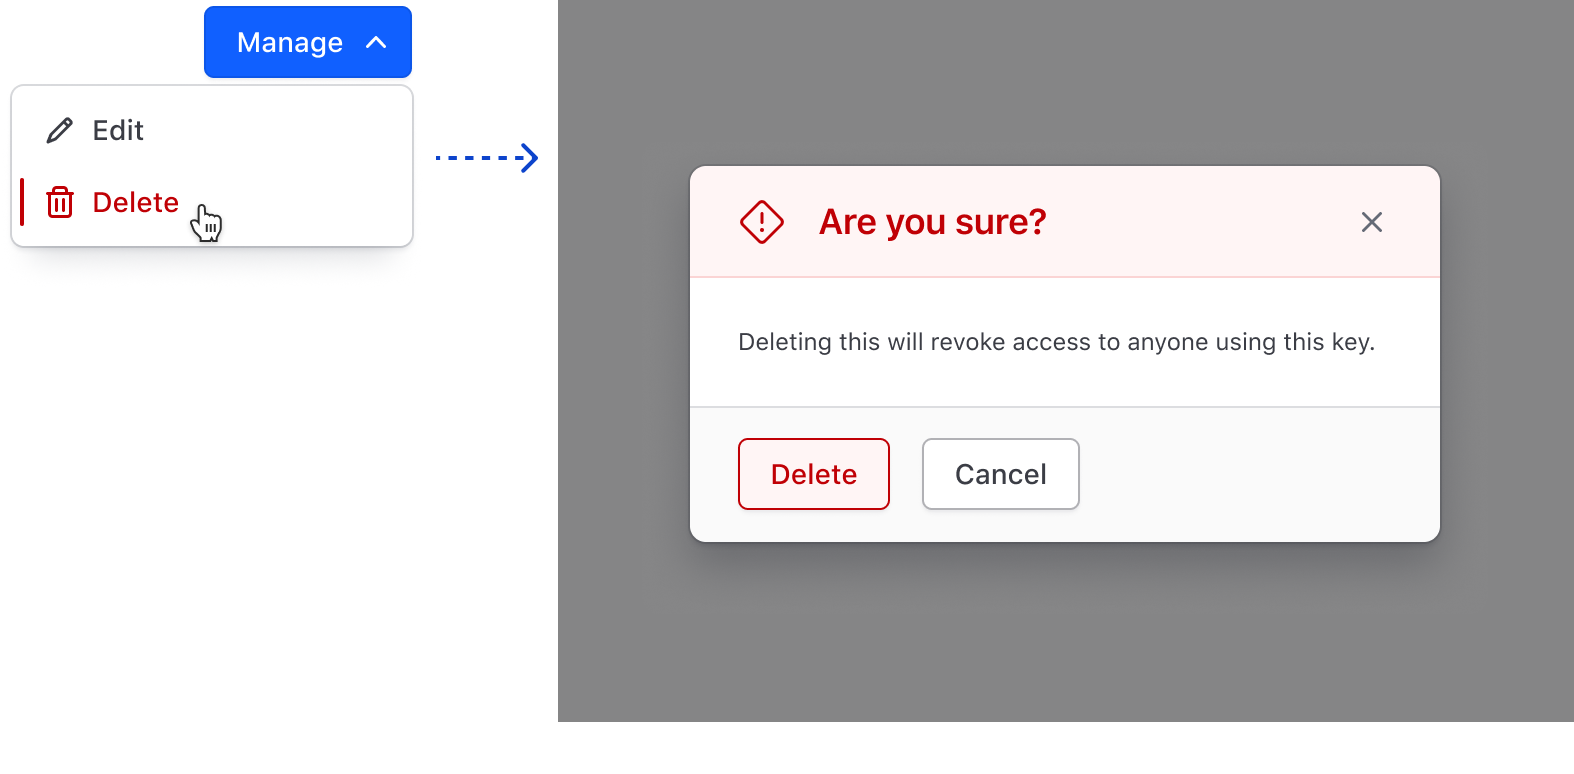
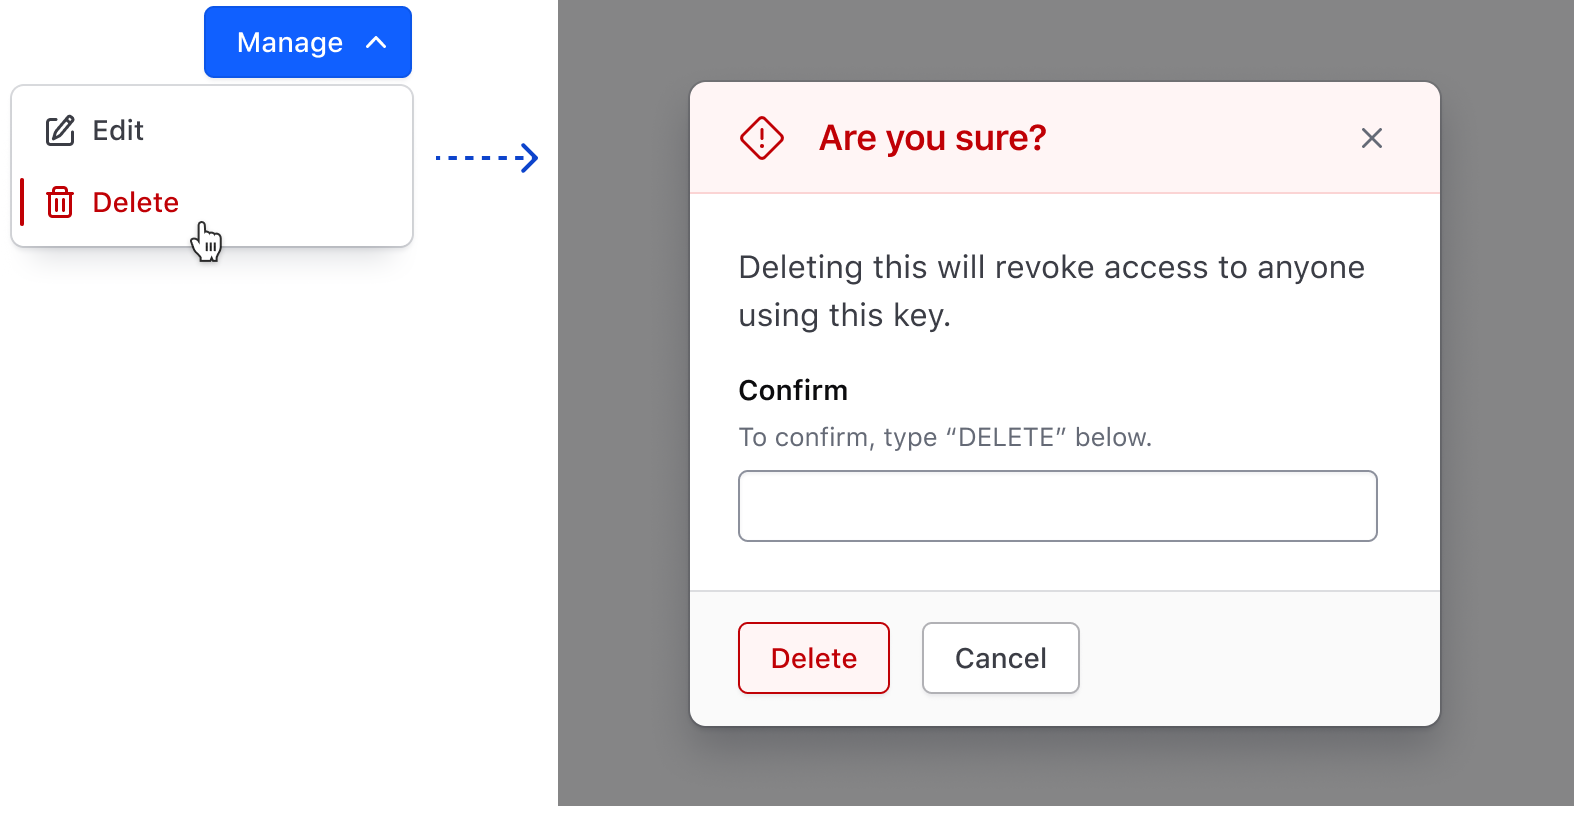
Update dropdown documentation with new features details (#1363)

diff --git a/website/app/styles/pages/components/dropdown.scss b/website/app/styles/pages/components/dropdown.scss
@@ -6,6 +6,10 @@
 // COMPONENTS > DROPDOWN
 
 #show-content-components-dropdown {
+  .hds-dropdown__content {
+    margin-bottom: 16px;
+  }
+
   .hds-dropdown__list {
     margin: 0;
     padding: 4px 0;

diff --git a/website/docs/components/dropdown/partials/guidelines/guidelines.md b/website/docs/components/dropdown/partials/guidelines/guidelines.md
@@ -74,24 +74,27 @@ ToggleButtons come in two sizes: **small** and **medium**. This allows for place
 
 ToggleIcons come in two sizes: **small** and **medium**. 
 
-While we provide a small size variant, we recommend only using this for the Overflow menu within [Tables](/components/table) because the icons and images start to become unrecognizable in smaller sizes.
+!!! Info
 
-  <Hds::ButtonSet>
-    <Hds::Dropdown as |dd|>
-      <dd.ToggleIcon @icon="user" @size="small" @text="user menu" />
-      <dd.Interactive @text="Item One" />
-      <dd.Interactive @text="Item Two" />
-      <dd.Interactive @text="Item Three" />
-      <dd.Interactive @text="Item Four" />
-    </Hds::Dropdown>
-    <Hds::Dropdown as |dd|>
-      <dd.ToggleIcon @icon="user" @text="user menu" />
-      <dd.Interactive @text="Item One" />
-      <dd.Interactive @text="Item Two" />
-      <dd.Interactive @text="Item Three" />
-      <dd.Interactive @text="Item Four" />
-    </Hds::Dropdown>
-  </Hds::ButtonSet>
+While we provide a small size variant, we recommend only using this for the Overflow menu within [Tables](/components/table) because the icons and images start to become unrecognizable in smaller sizes.
+!!!
+
+<Doc::Layout @spacing="24px">
+  <Hds::Dropdown as |dd|>
+    <dd.ToggleIcon @icon="more-horizontal" @size="small" @text="Overflow Options" @hasChevron={{false}} />
+    <dd.Interactive @text="Item One" />
+    <dd.Interactive @text="Item Two" />
+    <dd.Interactive @text="Item Three" />
+    <dd.Interactive @text="Item Four" />
+  </Hds::Dropdown>  
+  <Hds::Dropdown as |dd|>
+    <dd.ToggleIcon @icon="user" @text="user menu" />
+    <dd.Interactive @text="Item One" />
+    <dd.Interactive @text="Item Two" />
+    <dd.Interactive @text="Item Three" />
+    <dd.Interactive @text="Item Four" />
+  </Hds::Dropdown>
+</Doc::Layout>
 
 ### Chevron usage
 
@@ -115,9 +118,9 @@ Lists can be positioned to the left or right of the Toggle, and above or below t
 
 ### Size
 
-#### Default width
+#### Width
 
-Lists have a minimum width of 200px and a maximum width of 400px. This means if there’s a long string in a ListItem the List will automatically expand up to 400px to accommodate that content before the content wraps.
+By default, Lists have a minimum width of 200px and a maximum width of 400px. This means if there’s a long string in a ListItem, the List will automatically expand up to 400px to accommodate the content before it wraps.
 
 <div class="hds-dropdown__content">
   <Doc::ListContainer class="hds-dropdown__list">
@@ -130,21 +133,18 @@ Lists have a minimum width of 200px and a maximum width of 400px. This means if 
   </Doc::ListContainer>
 </div>
 
-#### Fixed width
+If you do not want the width of the List to expand automatically to accommodate the widest ListItem, you can indicate a specific width between 200px–400px.
 
-If you do not want the width of the List to expand automatically to accommodate the widest list item, you can indicate a specific width. As a best practice, we have set the maximum width to 400px.
-
-<div class="hds-dropdown__content" style="width: 400px">
+<div class="hds-dropdown__content" style="width: 320px">
   <Doc::ListContainer class="hds-dropdown__list">
     <Hds::Dropdown::ListItem::Title @text="Consul version v1.10.6" />
-    <Hds::Dropdown::ListItem::Separator />
-    <Hds::Dropdown::ListItem::Interactive @text="Update Consul version" />
-    <Hds::Dropdown::ListItem::Interactive @text="Edit cluster" />
+    <Hds::Dropdown::ListItem::Interactive @text="Update Consul version" @icon="sync" />
+    <Hds::Dropdown::ListItem::Interactive @text="Edit cluster" @icon="edit" />
     <Hds::Dropdown::ListItem::Separator />
     <Hds::Dropdown::ListItem::Title @text="Import to Terraform" />
     <Hds::Dropdown::ListItem::Description @text="Copy and run this command in Terraform to import and manage this resource via our Terraform Provider" />
     <Hds::Dropdown::ListItem::Generic>
-      <Hds::Link::Standalone @color="primary" @text="Docs: Import usage" @icon="docs-link" @iconPosition="leading" @href="#" />
+      <Hds::Link::Standalone @color="primary" @text="Docs: Import usage" @icon="docs-link" @iconPosition="trailing" @href="#" />
     </Hds::Dropdown::ListItem::Generic>
     <Hds::Dropdown::ListItem::CopyItem @text="terraform import hcp_connect" />
     <Hds::Dropdown::ListItem::Separator />
@@ -156,19 +156,62 @@ If you do not want the width of the List to expand automatically to accommodate 
 
 The height of the ListContainer is automatically determined based on the contents, but the height can also be set manually. We recommend setting the height manually if you know the list will be long.  
 
+<div class="hds-dropdown__content" style="height: 275px">
+  <Doc::ListContainer class="hds-dropdown__list">
+    <Hds::Dropdown::ListItem::Checkbox @value="Planned">Planned</Hds::Dropdown::ListItem::Checkbox>
+    <Hds::Dropdown::ListItem::Checkbox @value="Policy override">Policy override</Hds::Dropdown::ListItem::Checkbox>
+    <Hds::Dropdown::ListItem::Checkbox @value="Policy checked">Policy checked</Hds::Dropdown::ListItem::Checkbox>
+    <Hds::Dropdown::ListItem::Checkbox @value="Cost estimated">Cost estimated</Hds::Dropdown::ListItem::Checkbox>
+    <Hds::Dropdown::ListItem::Checkbox @value="Errored">Errored</Hds::Dropdown::ListItem::Checkbox>
+    <Hds::Dropdown::ListItem::Checkbox @value="Fetched">Fetched</Hds::Dropdown::ListItem::Checkbox>
+    <Hds::Dropdown::ListItem::Checkbox @value="Planning">Planning</Hds::Dropdown::ListItem::Checkbox>
+    <Hds::Dropdown::ListItem::Checkbox @value="Planned">Planned</Hds::Dropdown::ListItem::Checkbox>
+    <Hds::Dropdown::ListItem::Checkbox @value="Policy override">Policy override</Hds::Dropdown::ListItem::Checkbox>
+    <Hds::Dropdown::ListItem::Checkbox @value="Policy checked">Policy checked</Hds::Dropdown::ListItem::Checkbox>
+    <Hds::Dropdown::ListItem::Checkbox @value="Cost estimated">Cost estimated</Hds::Dropdown::ListItem::Checkbox>
+    <Hds::Dropdown::ListItem::Checkbox @value="Errored">Errored</Hds::Dropdown::ListItem::Checkbox>
+    <Hds::Dropdown::ListItem::Checkbox @value="Fetched">Fetched</Hds::Dropdown::ListItem::Checkbox>
+    <Hds::Dropdown::ListItem::Checkbox @value="Planning">Planning</Hds::Dropdown::ListItem::Checkbox>
+  </Doc::ListContainer>
+</div>
+
+
+### Header
+
+A Header provides a fixed space at the top of the List. Typically, Headers house a search feature that allows the user to search/filter through the available options in the list. This is great for really long lists when filtering on complex datasets. 
+
 <div class="hds-dropdown__content">
   <Doc::ListContainer class="hds-dropdown__list">
-    <Hds::Dropdown::ListItem::Title @text="Integrate with Terraform Cloud" />
-    <Hds::Dropdown::ListItem::Description @text="Create a new run task in Terraform using the URL and key below." />
-    <Hds::Dropdown::ListItem::CopyItem @copyItemTitle="Endpoint URL" @text="https://api.cloud.hashicorp.com/" />
-    <Hds::Dropdown::ListItem::CopyItem @copyItemTitle="HMAC Key" @text="91ee1e8ef65b337f0e70d793f456c71d" />
-    <Hds::Dropdown::ListItem::Separator />
-    <Hds::Dropdown::ListItem::Title @text="Manage" />
-    <Hds::Dropdown::ListItem::Interactive @text="Regenerate HMAC key" @color="action" @icon="reload" />
-    <Hds::Dropdown::ListItem::Separator />
-    <Hds::Dropdown::ListItem::Interactive @text="Integrating with Terraform Cloud" @color="action" @icon="external-link" />
-    <Hds::Dropdown::ListItem::Interactive @text="About Terraform Cloud" @color="action" @icon="external-link" />
-    <Hds::Dropdown::ListItem::Interactive @text="About Packer" @color="action" @icon="external-link" />
+    <Hds::Dropdown::Header @hasDivider={{true}}>
+      <Hds::Form::TextInput::Base @type="search" placeholder="Search" />
+    </Hds::Dropdown::Header>
+    <Hds::Dropdown::ListItem::Checkbox @value="Planned">Planned</Hds::Dropdown::ListItem::Checkbox>
+    <Hds::Dropdown::ListItem::Checkbox @value="Policy override">Policy override</Hds::Dropdown::ListItem::Checkbox>
+    <Hds::Dropdown::ListItem::Checkbox @value="Policy checked">Policy checked</Hds::Dropdown::ListItem::Checkbox>
+    <Hds::Dropdown::ListItem::Checkbox @value="Cost estimated">Cost estimated</Hds::Dropdown::ListItem::Checkbox>
+    <Hds::Dropdown::ListItem::Checkbox @value="Errored">Errored</Hds::Dropdown::ListItem::Checkbox>
+    <Hds::Dropdown::ListItem::Checkbox @value="Fetched">Fetched</Hds::Dropdown::ListItem::Checkbox>
+  </Doc::ListContainer>
+</div>
+
+### Footer
+
+A Footer provides a fixed space at the bottom of the List. Typically, Footers house actions related to the ListItems, e.g., when found in a filtering pattern an "Apply" Button can be used to submit the selections.
+
+<div class="hds-dropdown__content">
+  <Doc::ListContainer class="hds-dropdown__list">
+    <Hds::Dropdown::ListItem::Checkbox @value="Planned">Planned</Hds::Dropdown::ListItem::Checkbox>
+    <Hds::Dropdown::ListItem::Checkbox @value="Policy override">Policy override</Hds::Dropdown::ListItem::Checkbox>
+    <Hds::Dropdown::ListItem::Checkbox @value="Policy checked">Policy checked</Hds::Dropdown::ListItem::Checkbox>
+    <Hds::Dropdown::ListItem::Checkbox @value="Cost estimated">Cost estimated</Hds::Dropdown::ListItem::Checkbox>
+    <Hds::Dropdown::ListItem::Checkbox @value="Errored">Errored</Hds::Dropdown::ListItem::Checkbox>
+    <Hds::Dropdown::ListItem::Checkbox @value="Fetched">Fetched</Hds::Dropdown::ListItem::Checkbox>
+    <Hds::Dropdown::Footer @hasDivider={{true}}>
+      <Hds::ButtonSet>
+        <Hds::Button @text="Apply filters" type="submit" />
+        <Hds::Button @text="Cancel" @color="secondary" />
+      </Hds::ButtonSet>
+    </Hds::Dropdown::Footer>
   </Doc::ListContainer>
 </div>
 
@@ -176,78 +219,115 @@ The height of the ListContainer is automatically determined based on the content
 
 ### Types
 
-![Dropdown ListItem types](/assets/components/dropdown/dropdown-listitem-types.png =449x*)
+For maximum flexibility, we offer a variety of ListItems options. 
 
-!!! Info
+#### Interactive ListItems
 
-**A note on Loading**
+Use Interactive ListItems for actions (buttons) or links.
 
-Users may not understand why something is taking additional time to load. If possible, determine what should be displayed prior to the user opening the dropdown (e.g., on page load). If that is not possible, provide an informative loading message.
-!!!
+- Use `Interactive - Critical` for destructive actions. 
+- Use `Interactive - Action` for everything else.
 
-### Icon usage
+![Interactive ListItem types](/assets/components/dropdown/dropdown-listitem-types-interactive.png =449x*)
 
-Icons in ListItems are optional, and we recommend letting the text speak for itself unless an icon provides additional value.
+#### Selection ListItems
 
-We don’t recommend mixing and matching icon use; that’s to say, if using an icon in one ListItem, use an icon in all ListItems. Doing so keeps the text aligned so the eye can scan the list of options more easily.
+Selection ListItems allow the user to select one or more options within a Dropdown.
+
+- Use `Checkmark` for switching context, e.g., organization switchers, project switchers, etc. Use for single selection only, as it doesn't provide enough indication that multi-selection is possible. For multi-selection, use `Checkbox`. 
+- Use `Checkbox` for multi-selection within a form or larger filter pattern.
+- Use `Radio` for single selection within a form or larger filter pattern.
+
+![Selection ListItem types](/assets/components/dropdown/dropdown-listitem-types-selection.png =396x*)
 
 !!! Do
 
+Use `Checkmark` for context switching. 
+
+![Example of proper checkmark list items](/assets/components/dropdown/dropdown-interactive-contextswitcher-do.png =280x*)
+!!!
+
+!!! Dont
+
+Don't use `Checkmark` instead of `Radio` in larger filter patterns.  
+
+![Example of incorrect checkmark list items](/assets/components/dropdown/dropdown-interactive-filter-dont.png =768x*)
+!!!
+
+#### Non-interactive
+
+Non-interactive ListItems help provide structure and context to a Dropdown. Types include: `Description`, `Loading`, `Separator`, and `Title`.
+
+![Non-interactive ListItem types](/assets/components/dropdown/dropdown-listitem-types-noninteractive.png =449x*)
+
+!!! Do
+
+Users may not understand why something is taking additional time to load. If possible, determine what should be displayed prior to the user opening the dropdown (e.g., on page load). If that is not possible, provide an informative loading message.
+
+![Example of loading list item](/assets/components/dropdown/dropdown-loading-do.png =248x*)
+!!!
+
+#### Generic
+
+The Generic ListItem allows you to add custom content in place of a ListItem. It includes predefined left and right padding to ensure proper alignment with other ListItems in the List. 
+
+!!! Warning
+
+Be careful not to misuse or overuse the Generic ListItem. Relying on this escape hatch too often could result in an overly complex Dropdown.
+!!!
+
+![Generic ListItem type](/assets/components/dropdown/dropdown-listitem-types-generic.png =449x*)
+
+### Icon usage
+
+Icons in ListItems are optional. Generally, we recommend letting the text speak for itself, but icons can add value in the following situations:
+
+- When they reinforce the content, e.g., `edit` for an edit or rename action. 
+- When using Critical ListItems; read more about [how color blind users see critical actions](/components/dropdown?tab=accessibility) in our UIs.
+- To avoid inconsistent icon use within the same List. Instead use icons in all ListItems. Doing so keeps the text aligned so the eye can scan the list of options more easily.
+
+!!! Do
+
+Use icons consistently and when they reinforce the content.
+
 <div class="hds-dropdown__content">
   <Doc::ListContainer class="hds-dropdown__list">
-    <Hds::Dropdown::ListItem::Title @text="About" />
-    <Hds::Dropdown::ListItem::Interactive @text="About Consul" @color="action" @icon="play-circle" />
-    <Hds::Dropdown::ListItem::Interactive @text="Why Consul on HCP" @color="action" @icon="link" />
-    <Hds::Dropdown::ListItem::Interactive @text="Success story" @color="action" @icon="play-circle" />
+    <Hds::Dropdown::ListItem::Interactive @text="Rename cluster" @color="action" @icon="edit" />
+    <Hds::Dropdown::ListItem::Interactive @text="Restore cluster" @color="action" @icon="reload" />
+    <Hds::Dropdown::ListItem::Separator />
+    <Hds::Dropdown::ListItem::Interactive @text="Delete cluster" @color="critical" @icon="trash" />
   </Doc::ListContainer>
 </div>
 !!!
 
 !!! Dont
 
+Avoid inconsistent icon use.
+
 <div class="hds-dropdown__content">
   <Doc::ListContainer class="hds-dropdown__list">
-    <Hds::Dropdown::ListItem::Title @text="About" />
-    <Hds::Dropdown::ListItem::Interactive @text="About Consul" @color="action" @icon="play-circle" />
-    <Hds::Dropdown::ListItem::Interactive @text="Why Consul on HCP" @color="action" @icon="link" />
-    <Hds::Dropdown::ListItem::Interactive @text="Success story" @color="action" />
+    <Hds::Dropdown::ListItem::Interactive @text="Rename cluster" @color="action" />
+    <Hds::Dropdown::ListItem::Interactive @text="Restore cluster" @color="action" @icon="reload" />
+    <Hds::Dropdown::ListItem::Separator />
+    <Hds::Dropdown::ListItem::Interactive @text="Delete cluster" @color="critical" @icon="trash" />
   </Doc::ListContainer>
 </div>
 !!!
 
-### Critical ListItems
+### Content
 
-#### Icons in Critical ListItems
+While there are no character limits for ListItems, we recommend keeping them short and concise so the List is easy to scan.
 
-While icons are optional, we recommend using a relevant icon for Critical ListItems. Using the correct icon provides a stronger and more immediate visual indication that the action is destructive. Read more about [how color blind users see critical actions](/components/dropdown?tab=accessibility) in our UIs.
+## Critical action patterns
 
-<div class="hds-dropdown__content">
-  <Doc::ListContainer class="hds-dropdown__list">
-    <Hds::Dropdown::ListItem::Interactive @text="Rename" @color="action" />
-    <Hds::Dropdown::ListItem::Interactive @text="Restore" @color="action" />
-    <Hds::Dropdown::ListItem::Separator />
-    <Hds::Dropdown::ListItem::Interactive @text="Delete" @color="critical" @icon="trash" />
-  </Doc::ListContainer>
-</div>
-
-#### Critical action patterns
-We recommend adding a second confirmation layer after the user clicks “Delete” (e.g., showing a confirmation Modal that requires the user to type “Delete” into a field before proceeding). This safeguards against accidental clicks by requiring users to confirm the destructive action.
+We recommend adding a second confirmation layer after the user clicks “Delete” (e.g., showing a confirmation Modal that requires the user to take another action before proceeding). This safeguards against accidental clicks by requiring users to confirm the destructive action.
 
 !!! Do
 
 ![example of how to use a second confirmation layer](/assets/components/dropdown/dropdown-example-do.png =780x*)
-
 !!!
 
 !!! Dont
 
 ![example of how not to use a second confirmation layer](/assets/components/dropdown/dropdown-example-dont.png =507x*)
-
 !!!
-
-
-## Content
-
-There is no character limit for ListItems, but we recommend keeping them short and concise (~36 characters).
-
-Take care to use dropdowns correctly. A crowded or overly complex dropdown can lead to a frustrating user experience, especially for assistive technology users. Contact the [Design Systems Team](/about/support) to discuss alternative options if a dropdown feels too complex.

diff --git a/website/docs/components/dropdown/partials/guidelines/overview.md b/website/docs/components/dropdown/partials/guidelines/overview.md
@@ -1,1 +1,6 @@
-A dropdown is a flexible component that displays a list of actions or options to the user. It should not to be confused with [Select](/components/form/select), which is used in forms as a way for the user to make a selection from a list.
+A dropdown is a flexible component that displays a list of actions or options to the user. It should not be confused with [Select](/components/form/select), which is used in forms as a way for the user to make a selection from a list.
+
+!!! Info
+
+Take care to use dropdowns correctly. A crowded or overly complex dropdown can lead to a frustrating user experience, especially for assistive technology users. Contact the [Design Systems Team](/about/support) to discuss alternative options if a dropdown feels too complex.
+!!!
